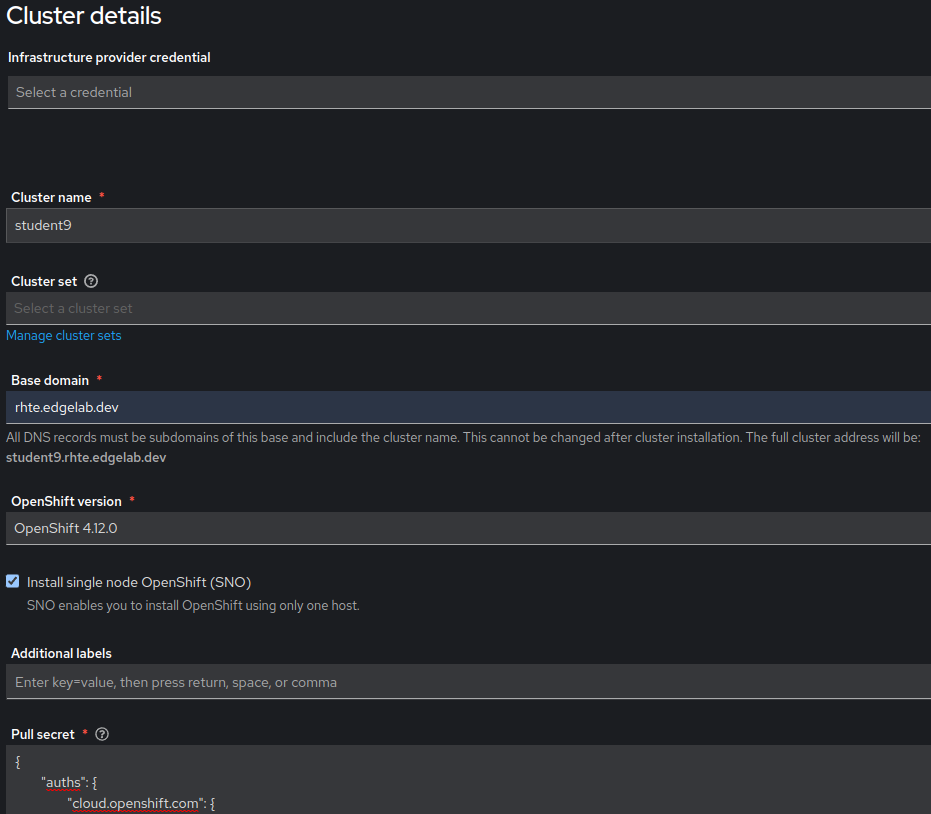
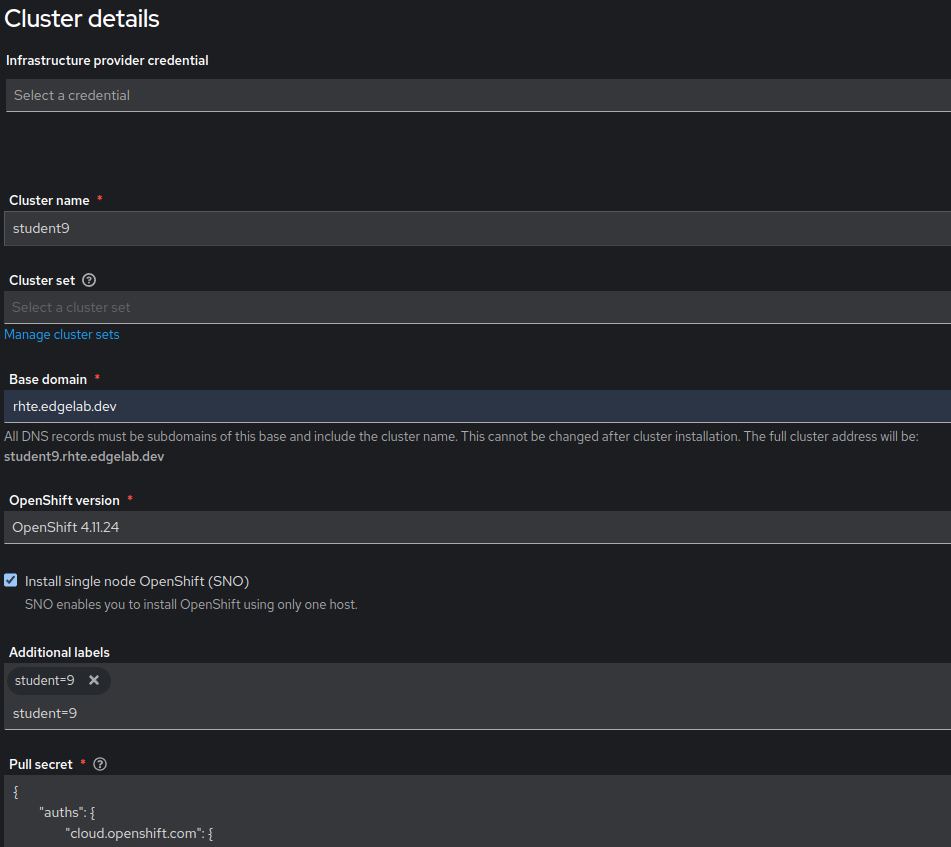
Finish VM provisioning guides

diff --git a/90-lab-guides/content/labguides/ex-2.1/index.md b/90-lab-guides/content/labguides/ex-2.1/index.md
@@ -13,7 +13,13 @@ Navigate to the Cockpit Machines interface and identify your assigned VM, openin
 >
 > Remember that these VMs have been preconfigured to boot the Discovery ISO to install their operating system and will boot from their virtual hard drive after this.
 
-From the ACM Hub interface, head to `Infrastructure` then `Host Inventory` and click on the name of your Infrastructure Environment, `{{ site.data.login.region }}`. Click on the `Hosts` tab in the main pane and find your assigned VM in the list, or wait a few seconds if it's not showing yet, and then click ![Approve Host](/assets/images/acm-approve-host.png?style=small "Approve Host") (then `Approve Host` again in the popup after confirming the correct Hostname) in the `Status` column.
+From the ACM Hub interface, head to `Infrastructure` then `Host Inventory` and click on the name of your Infrastructure Environment, `{{ site.data.login.region }}`.
+
+> **Note**
+>
+> If you don't see the `Infrastructure` section of the navigation bar on the left, remember to change `local-cluster` to `All clusters` using the pulldown in the top left.
+
+Click on the `Hosts` tab in the main pane and find your assigned VM in the list, or wait a few seconds if it's not showing yet, and then click ![Approve Host](/assets/images/acm-approve-host.png?style=small "Approve Host") (then `Approve Host` again in the popup after confirming the correct Hostname) in the `Status` column.
 
 
 This registers your host as `Available` for binding to a cluster. As long as this host stays booted into the Discovery ISO (from an ISO in the VM in this case, or maybe from a USB storage device in the field), it will remain available for binding to a cluster installation.
@@ -32,22 +38,32 @@ Because we've already provisioned our host, and approved it, on the next screen 
 
 1. For your cluster name, `student#` where you replace the `#` with your student number, as in your VM's name. In my examples, I've been showing the `student9-na` VM, so I'll put `student9`.
 2. For `Base domain`, put `rhte.edgelab.dev`.
-3. Pick `OpenShift 4.12.x` from the `OpenShift version` pulldown (It should be the only option right now).
+3. Pick `OpenShift 4.11.24` from the `OpenShift version` pulldown (It should be the only option right now).
 4. Check the `Install single node OpenShift (SNO)` box.
-5. Paste a `Pull secret` in the box. I'm not going to give you mine so easy, so head to the [OpenShift Cloud Console](https://console.redhat.com/openshift/install/pull-secret){:target="_blank"}.
+5. In the `Additional labels` box, enter `student=#` replacing `#` with your student number. In my example, I'm entering `student=9`.
+  - It should look like this: ![Additional labels](/assets/images/acm-cluster-additional-labels.png?style=border "Additional labels")
+6. Paste a `Pull secret` in the box. I'm not going to give you mine so easy, so head to the [OpenShift Cloud Console](https://console.redhat.com/openshift/install/pull-secret){:target="_blank"}.
 
 Here's how my form looks:
 
 ![Create cluster details](/assets/images/acm-create-cluster-details.png?style=centered&style=border "Create cluster details")
 
-Make sure your student number is right and your form matches mine (unless there's a z-stream release for 4.12).
+Make sure your student number is right and the version matches the one specified above, rather that necessarily the one that's in the screenshot.
 
 Click ![Next](/assets/images/acm-next.png?style=small) when you're sure your Cluster details are correct. Click it again to skip past the `Automation` section. This section lets us tie an Ansible Automation Platform Job to our cluster provisioning, but we're not using this. This would be good to use for configuring network devices, identity systems, or any other non-OpenShift component we need to orchestrate alongside our SNO cluster.
 
-Review the manifests on the right side of the screen before clicking ![Save](/assets/images/acm-save.png?style=small). These manifests could be applied via a GitOps process to onboard clusters with an audit trail and multiple pairs of human eyes confirming details. We could even use a Helm chart to make templates for our onboarding edge clusters.
+Review the manifests on the right side of the screen before clicking ![Save](/assets/images/acm-save.png?style=small). If you don't see the manifests, toggle them on with the button: ![ACM Yaml On](/assets/images/acm-cluster-enable-yaml.png?style=small "ACM Yaml On"). These manifests could be applied via a GitOps process to onboard clusters with an audit trail and multiple pairs of human eyes confirming details. We could even use a Helm chart to make templates for our onboarding edge clusters.
 
-When you click `Save`, your cluster will be drafted and queued for binding and installation. To make any changes after this point, you have to delete the cluster from the `Cluster list` and create it again from scratch.
+When you click `Save`, your cluster will be drafted and queued for binding and installation. To make any changes after this point, you have to delete the appropriate cluster from the `Cluster list` using the ![Three dots](/assets/images/acm-cluster-three-dots.png?style=small "Three dots") button, then create it again from scratch.
 
-#### Picking our discovered host and binding it to our SNO cluster draft.
+#### Picking our discovered host and binding it to our SNO cluster draft
 
-Toggle `Auto-select hosts` off, making it look like this: ![Auto-select hosts off](/assets/images/acm-auto-select-hosts-off.png?style=small)  Now, check the box next to your host.
+Toggle `Auto-select hosts` off, making it look like this: ![Auto-select hosts off](/assets/images/acm-auto-select-hosts-off.png?style=small)  Now, check the box next to your host. ![ACM Checked Host](/assets/images/acm-checked-host.png?style=small "ACM Checked host"). Click on ![Next](/assets/images/acm-next.png?style=small "Next").
+
+#### Finishing our cluster installation
+
+You can just hit ![Next](/assets/images/acm-next.png?style=small "Next") on the `Networking` screen. The only thing you might want to set is an SSH key, but this one should populate with the default key for all our labs if you leave it blank. The rest of this information would change depending on our network environment, but because we have DHCP reservations for our hosts they filled correctly by default.
+
+When you're ready and your cluster shows all green for validations on the `Review and create` screen (you may have to wait a few more seconds if you've been quick so far), you can click ![Install cluster](/assets/images/acm-install-cluster.png?style=small "Install cluster").
+
+In about twenty minutes, this cluster will be up and publicly accessible, though using self-signed certificates for now. If you click ![View Cluster Events](/assets/images/acm-create-cluster-events.png?style=small) you can view the installation progress. We don't need to sit around and wait for that node to install, though. Let's go adopt our bare metal clusters!

diff --git a/90-lab-guides/content/labguides/ex-2.2/index.md b/90-lab-guides/content/labguides/ex-2.2/index.md
@@ -1,0 +1,8 @@
+---
+layout: exercise
+title: Adopting a Running SNO Cluster
+---
+
+#### WIP
+
+this section under construction
